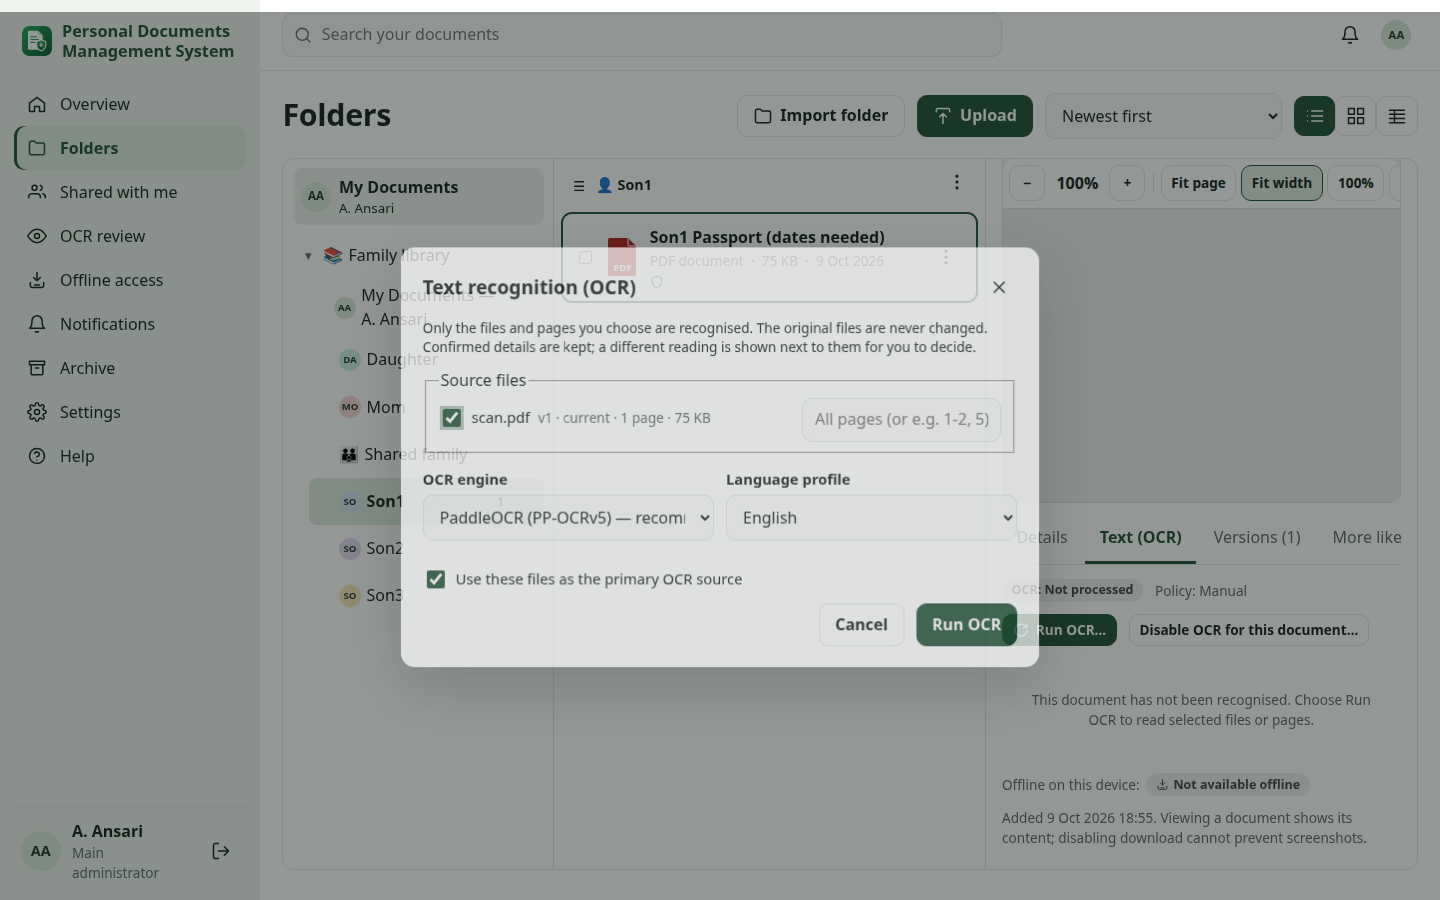
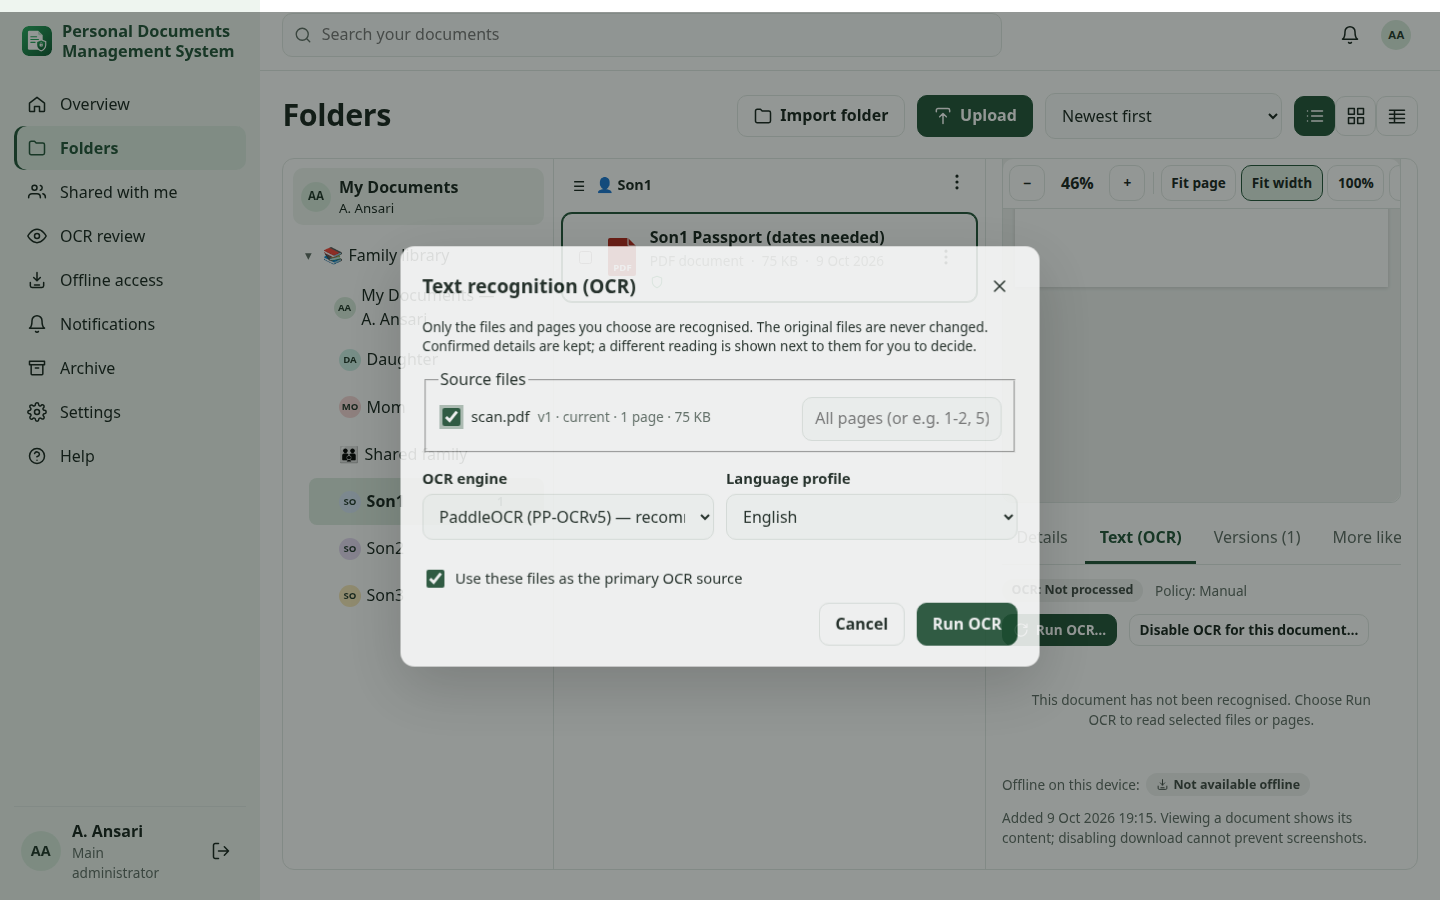
Test report for Change Set S; anchored token rule in the screenshot privacy gate

diff --git a/docs/TEST_REPORT.md b/docs/TEST_REPORT.md
@@ -1,6 +1,6 @@
 # Test report
 
-Date: 2026-10-03, updated 2026-10-06 (change sets K and L), 2026-10-07 (change sets M, N, O and P) and 2026-10-08 (change sets Q and R). Revision: the branch head at the commit that adds this file.
+Date: 2026-10-03, updated 2026-10-06 (change sets K and L), 2026-10-07 (change sets M, N, O and P) and 2026-10-08 (change sets Q and R) and 2026-10-09 (change set S). Revision: the branch head at the commit that adds this file.
 
 ## Environment actually used
 
@@ -22,6 +22,7 @@ Date: 2026-10-03, updated 2026-10-06 (change sets K and L), 2026-10-07 (change s
 | `scripts/verify.sh` (compile, `manage.py check`, `makemigrations --check`, settings reference, `bash -n` + shellcheck, pytest, `tsc` + `vite build`, repository hygiene) | **All passed** |
 | `pytest` (`tests/`) | **232 passed**, 0 failed, 0 skipped (OCR and LibreOffice tests ran; 2026-10-05, change set J: `test_browsing_v3` 7, `test_ocr_quality` 6) |
 | Change sets K and L (`tests/test_selective_ocr.py` 11, `tests/test_overview.py` 15, `tests/test_family_setup.py`; full `pytest tests` run on 2026-10-06) | **All passed**; full backend suite: 264 tests passed (`scripts/verify.sh`, which also ran the 18 stubbed installer checks, 17 frontend unit tests, type check, build and privacy check). Selective OCR policy, custom/archived types (409 for built-in or in-use types), source and page selection, front and back as one job, primary source, Remove OCR data and search, re-runs keep confirmed values, English/Arabic/Hindi with missing packs reported, states, review queue permissions, limits, cancel and pause, AI only for permitted types; Overview widgets, layout limits and styles, Gregorian/Hijri in the installation timezone, calendar, Saudi and Indian holidays with status and source, countries and corrections, weather off by default and against a **fake local weather server** (cache, stale, unavailable), sign-in presets, wallpaper upload/rejections/removal, identical sign-in methods; setup with only the Main Administrator, optional members, members added later, earlier six-account installations kept, deactivation keeps documents (DELETE 405) |
+| Change set S (2026-10-09: `tests/test_offline_sync.py` 9, `tests/test_pwa_identity.py` 4; browser `offline.mjs` 9, `pwa.mjs` 4, `themes.mjs` 6, `screenshots.mjs` 5; accessibility audit in 6 themes) | Full backend suite: **all passed** (about 380 passed, 5 skipped live tests, 0 failed). Final `scripts/e2e.sh` from a fresh database: flow 14, accessibility **no serious or critical violations in Default Green, Blue, Dark, Glass Light, Glass Dark and Black & White**, parity, layout **25 PASS, 0 FAIL**, offline **9/9**, PWA **4/4**, themes **6/6**. The screenshot step first failed on false positives of its own privacy gate (a deliberately long synthetic file name); after fixing the rule, flow + parity + screenshots were run again: see below. Defects found and fixed by these tests: Offline page cards squeezed at 390–430 px (layout audit); manifest served as `application/octet-stream`; offline text cache re-created after sign-out by a still-running sync; theme colour applied late on reload |
 | Change set R (`tests/e2e/layout.mjs`, AT-231…AT-245; 2026-10-08) | **25 PASS, 0 FAIL**, 0 layout defects. 27 screens × 7 viewports (1920×1080, 1440×900, 1366×768, 1180×820, 820×1180, 430×932, 390×844); header geometry baseline written and reviewed. Run against the unfixed build: **137 defects, 24 of 25 steps failed**. Full browser suite: flow + accessibility + parity **89 PASS, 0 FAIL**, no serious or critical accessibility violations |
 | Change set Q (`tests/test_ocr_engines_lifecycle.py` 21 incl. 3 live, AT-211…AT-230; 2026-10-08) | **All 21 passed**: 18 via the fake worker protocol, and **3 live against the real PP-OCRv5 runtime** (self-test + document run, Arabic + English, Hindi + English upright). Full backend suite: **372 passed**, 0 failed, 0 skipped (live PP-OCRv5 tests included). `manage.py doctor` with the real runtime: all OCR checks OK, including the inference self-test ("PERSONAL DOCUMENTS OCR SELF TEST 2027" read in 2.6–3.8 s) |
 | `scripts/ocr_engine_benchmark.py` (21 synthetic samples, PP-OCRv5 mobile vs Tesseract 5.3.4; 2026-10-08) | PP-OCRv5 mean character accuracy **98.8 %** vs Tesseract **93.7 %**; English word F1 1.00 vs 0.97; 5.7 vs 2.6 s/page; peak child RSS 1.9 GB vs 0.5 GB. A first run with text-line orientation on read Hindi + English at 20 % (every line flipped), so that option now defaults to off. Real-document categories: **Not Run**. See [benchmark](OCR_BENCHMARK.md#engines) |
@@ -55,14 +56,56 @@ The end-to-end flow covers: the setup wizard creating the Main Administrator (de
 
 Screenshots of the real application with synthetic data are in `docs/screenshots/`.
 
-## Acceptance summary (AT-01…AT-245) {#summary}
+## Change set S: offline access, PWA identity, themes, screenshots {#change-set-s}
 
-235 scenarios (AT-51…AT-60 were never assigned). Per-scenario status: [TRACEABILITY.md](TRACEABILITY.md).
+**Investigation and root causes.**
+- *iPhone shows "A" instead of the icon.* It could not be reproduced on a physical device here. Found in the code:
+  - `/apple-touch-icon.png`, `/apple-touch-icon-precomposed.png` and `/favicon.ico` were answered with `200 text/html`
+    (the app page);
+  - there was no 180 px Apple icon and no `apple-mobile-web-app-title`.
+
+  iOS cannot use HTML as an icon and builds a letter tile from the page title. A reverse proxy that requires sign-in
+  for icon files produces the same symptom; `check-access` now tests for it. iOS keeps a shortcut's first icon, so a
+  fresh install is required.
+- *Low-detail screenshots.*
+  - All 50 were captured at 1× with mixed 1366/1440 widths, as side effects of functional tests.
+  - Four had no capture code left and showed older UI.
+  - Now: 1440×900 / 390×844 at 2×, settled, with quality and privacy gates.
+- *Themes.* 165 colour literals made dark/glass themes impossible without white islands. They are replaced by semantic
+  tokens.
+
+**Measured.**
+- Glass themes on a phone viewport: 2 blurred layers (navigation, top bar); about 60 fps scrolling the folder list
+  under 4× CPU throttling in headless Chromium (`tests/e2e/out/themes/effects.json`).
+- Contrast measured on rendered pixels: lowest ratio 5.08:1 (muted text on a card), all ≥ 4.5:1
+  (`tests/e2e/out/themes/contrast.json`).
+
+**Acceptance AT-251…AT-275** (prompt AT-226…AT-250):
+
+| Result | Tests |
+| --- | --- |
+| Passed | AT-251…AT-260, AT-263…AT-266, AT-268…AT-275 |
+| Partly | AT-261: markup and assets passed; a physical iPhone/iPad is **Not Run** |
+| Partly | AT-262: Chromium installability passed; real Android and desktop installs are **Not Run** |
+| Passed in emulation | AT-267: real low-end phones **Not Run** |
+
+**Not run here:**
+- a physical iPhone/iPad, Android device and installed desktop apps;
+- Firefox and Safari;
+- offline use on a real phone in airplane mode;
+- glass performance on real low-end devices;
+- a real Debian 13 upgrade.
+
+These are on the [release checklist](RELEASE_CHECKLIST.md).
+
+## Acceptance summary (AT-01…AT-275) {#summary}
+
+260 scenarios (AT-51…AT-60 were never assigned). Per-scenario status: [TRACEABILITY.md](TRACEABILITY.md).
 
 | Result | Count | Scenarios |
 |---|---|---|
-| Passed (automated tests, or for AT-136 and AT-245 a documented review) | 181 | all scenarios not listed below |
-| Passed in automated tests; real-environment validation pending | 47 | AT-17, 19, 21, 31, 39, 40, 69, 71, 76, 83, 90, 91, 98, 99, 111, 122, 125, 130, 134, 140, 142, 146, 147, 148, 149, 153, 154, 155, 174, 175, 177, 178, 181, 194, 195, 197, 202, 205, 206, 208, 211, 212, 214, 216, 228, 229, 230 |
+| Passed (automated tests, or for AT-136, AT-245, AT-270, AT-272 and AT-274 including a documented review) | 203 | all scenarios not listed below |
+| Passed in automated tests; real-environment validation pending | 50 | AT-17, 19, 21, 31, 39, 40, 69, 71, 76, 83, 90, 91, 98, 99, 111, 122, 125, 130, 134, 140, 142, 146, 147, 148, 149, 153, 154, 155, 174, 175, 177, 178, 181, 194, 195, 197, 202, 205, 206, 208, 211, 212, 214, 216, 228, 229, 230, 261 (physical iPhone/iPad), 262 (real Android/desktop installs), 267 (real low-end phones) |
 | Blocked (external environment) | 5 | AT-14, AT-26; AT-24, AT-27, AT-30 (partly automated, the rest needs a real Debian 13 LXC) |
 | Not run (manual steps, not automated, or no environment) | 2 | AT-15, AT-241 (installed PWA on a real device) |
 
